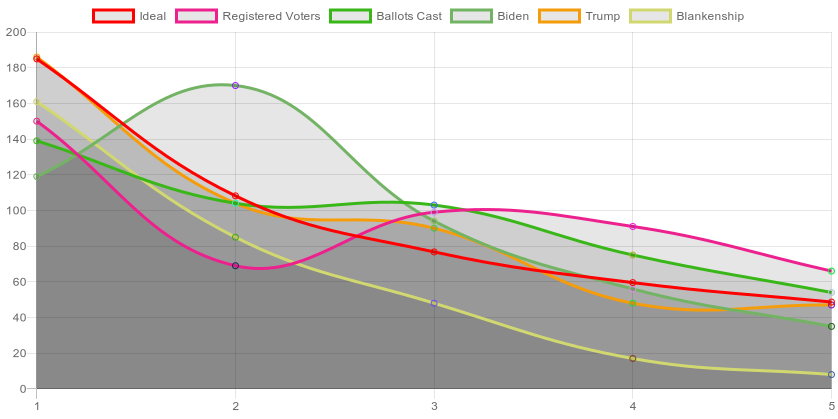
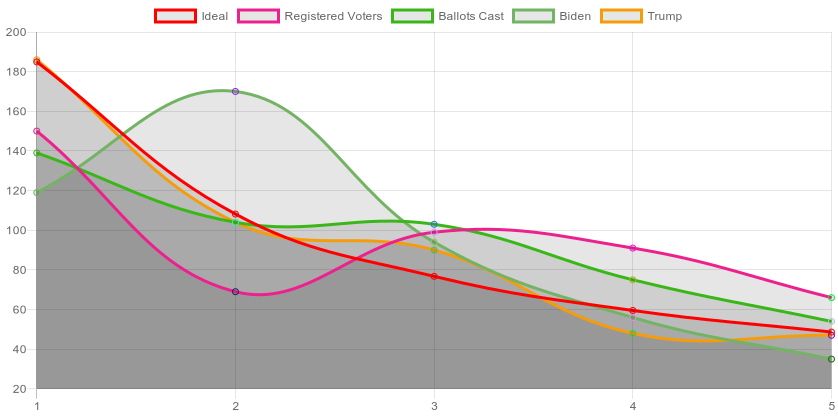
Updated graphs for Milwaukee

diff --git a/index.js b/index.js
@@ -16,7 +16,7 @@ const configsForLocations = [
     {
         jsonFilePath: './dump/milwaukee/vote-count/milwaukee.json',
         fieldsToDelete: ['field1', 'field8'],
-        limitCandidates: 5,
+        limitCandidates: 4,
         outputGraphPath: path.join(__dirname, 'dump', 'milwaukee', 'vote-count', 'milwaukee-graph.png')
     },
 
